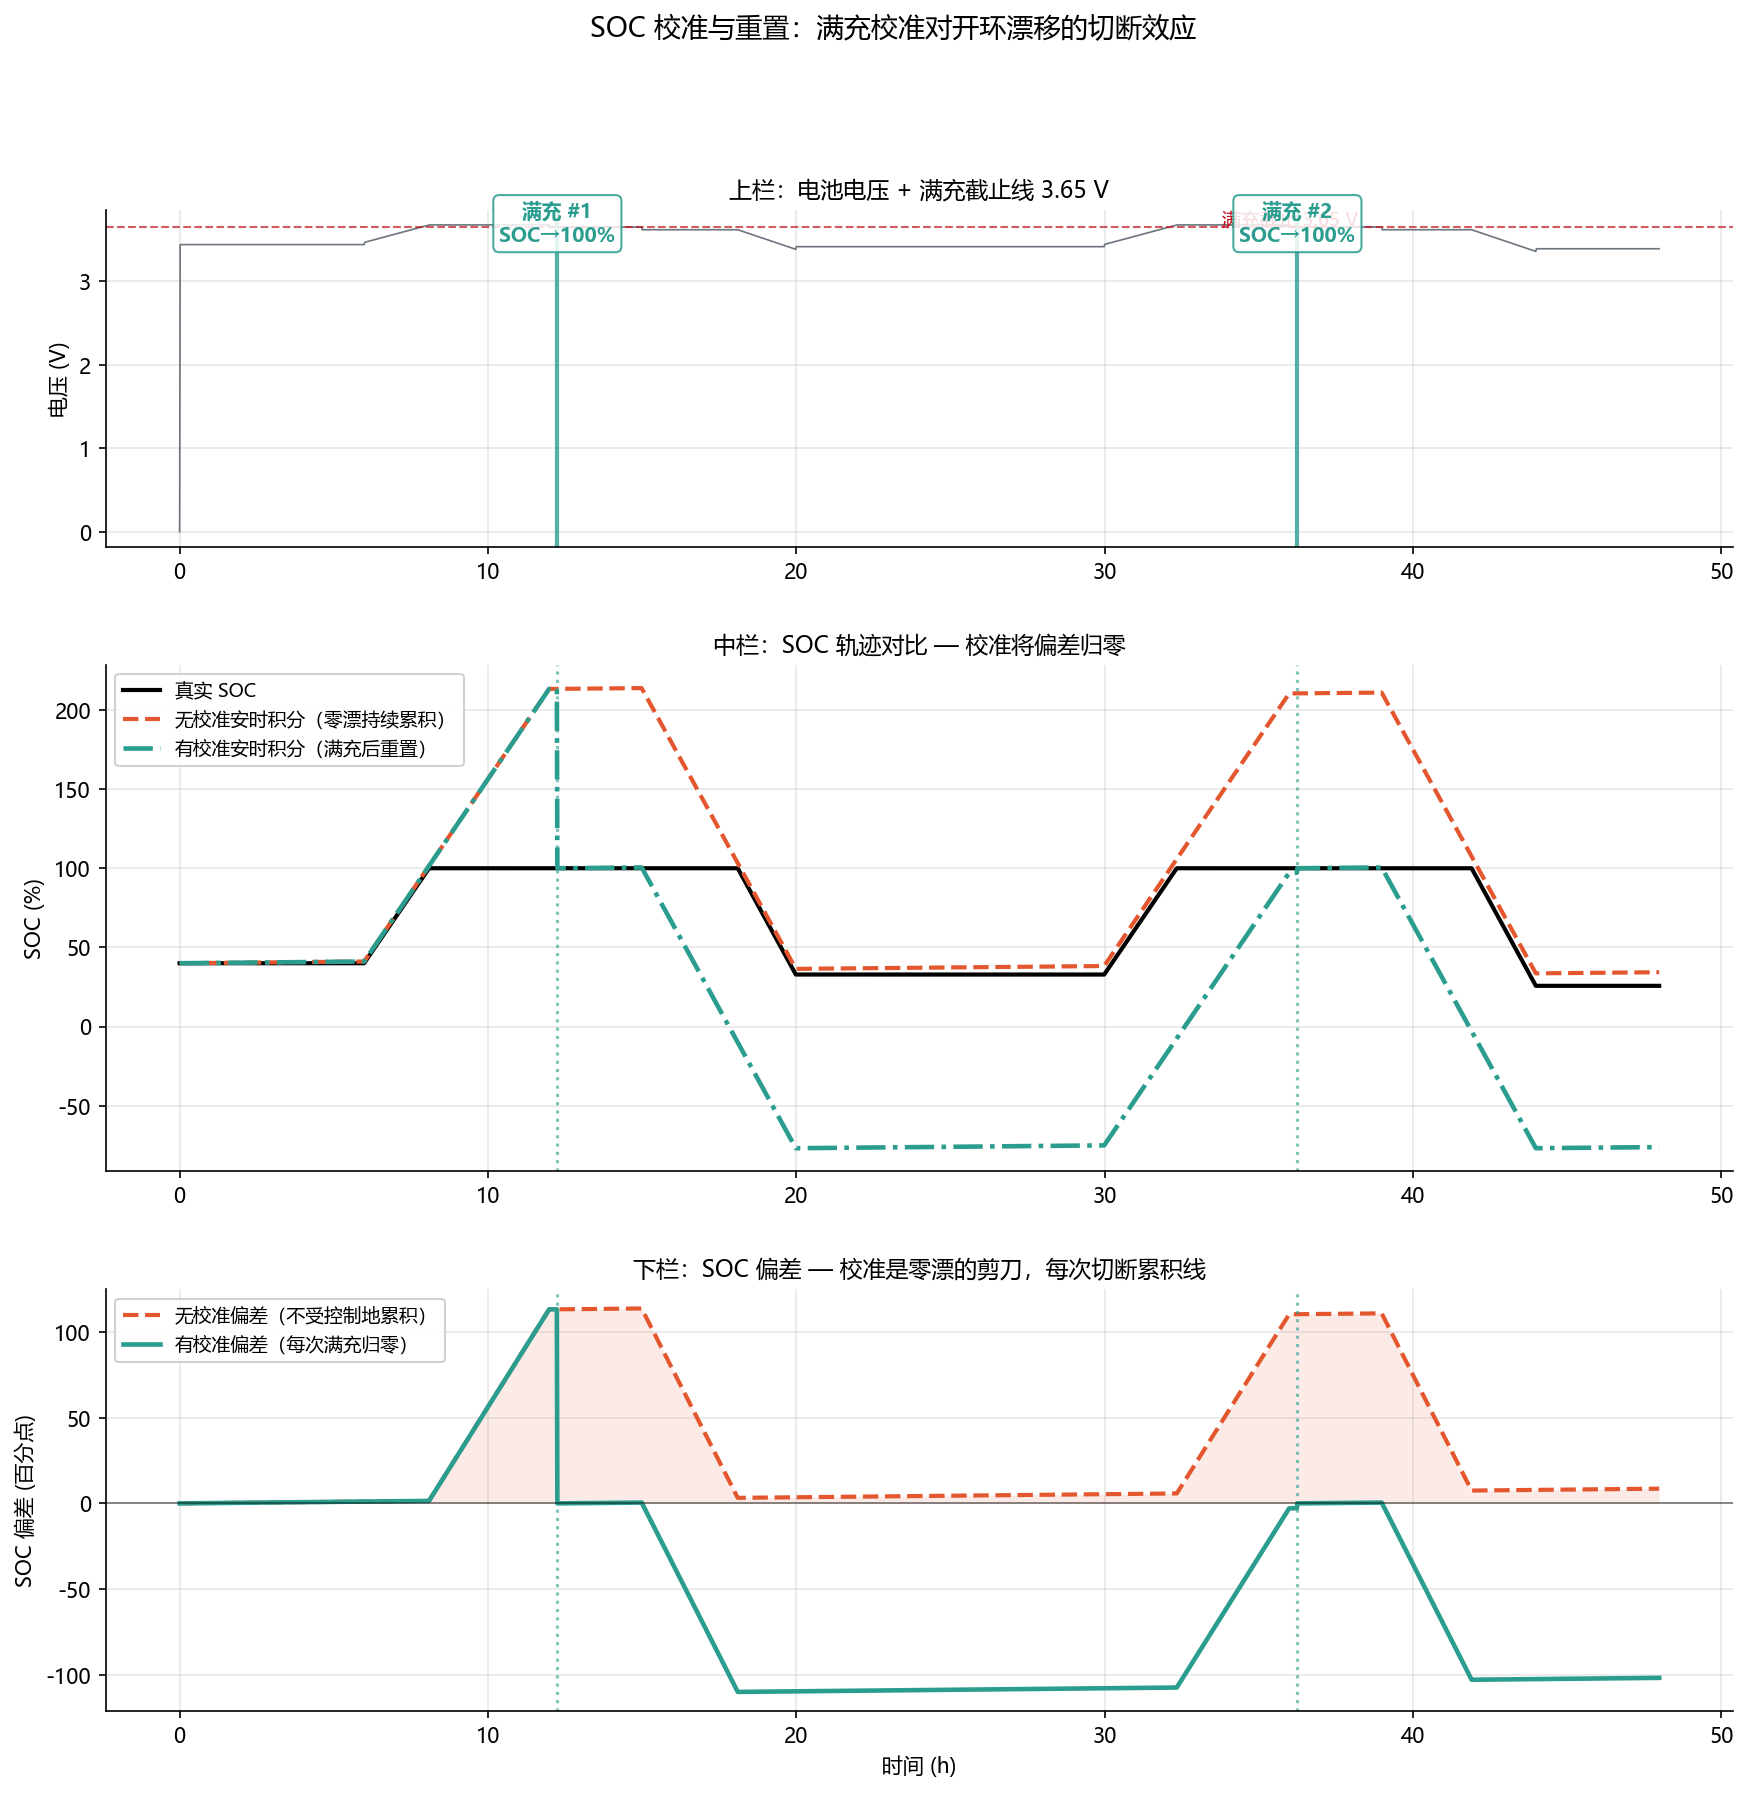
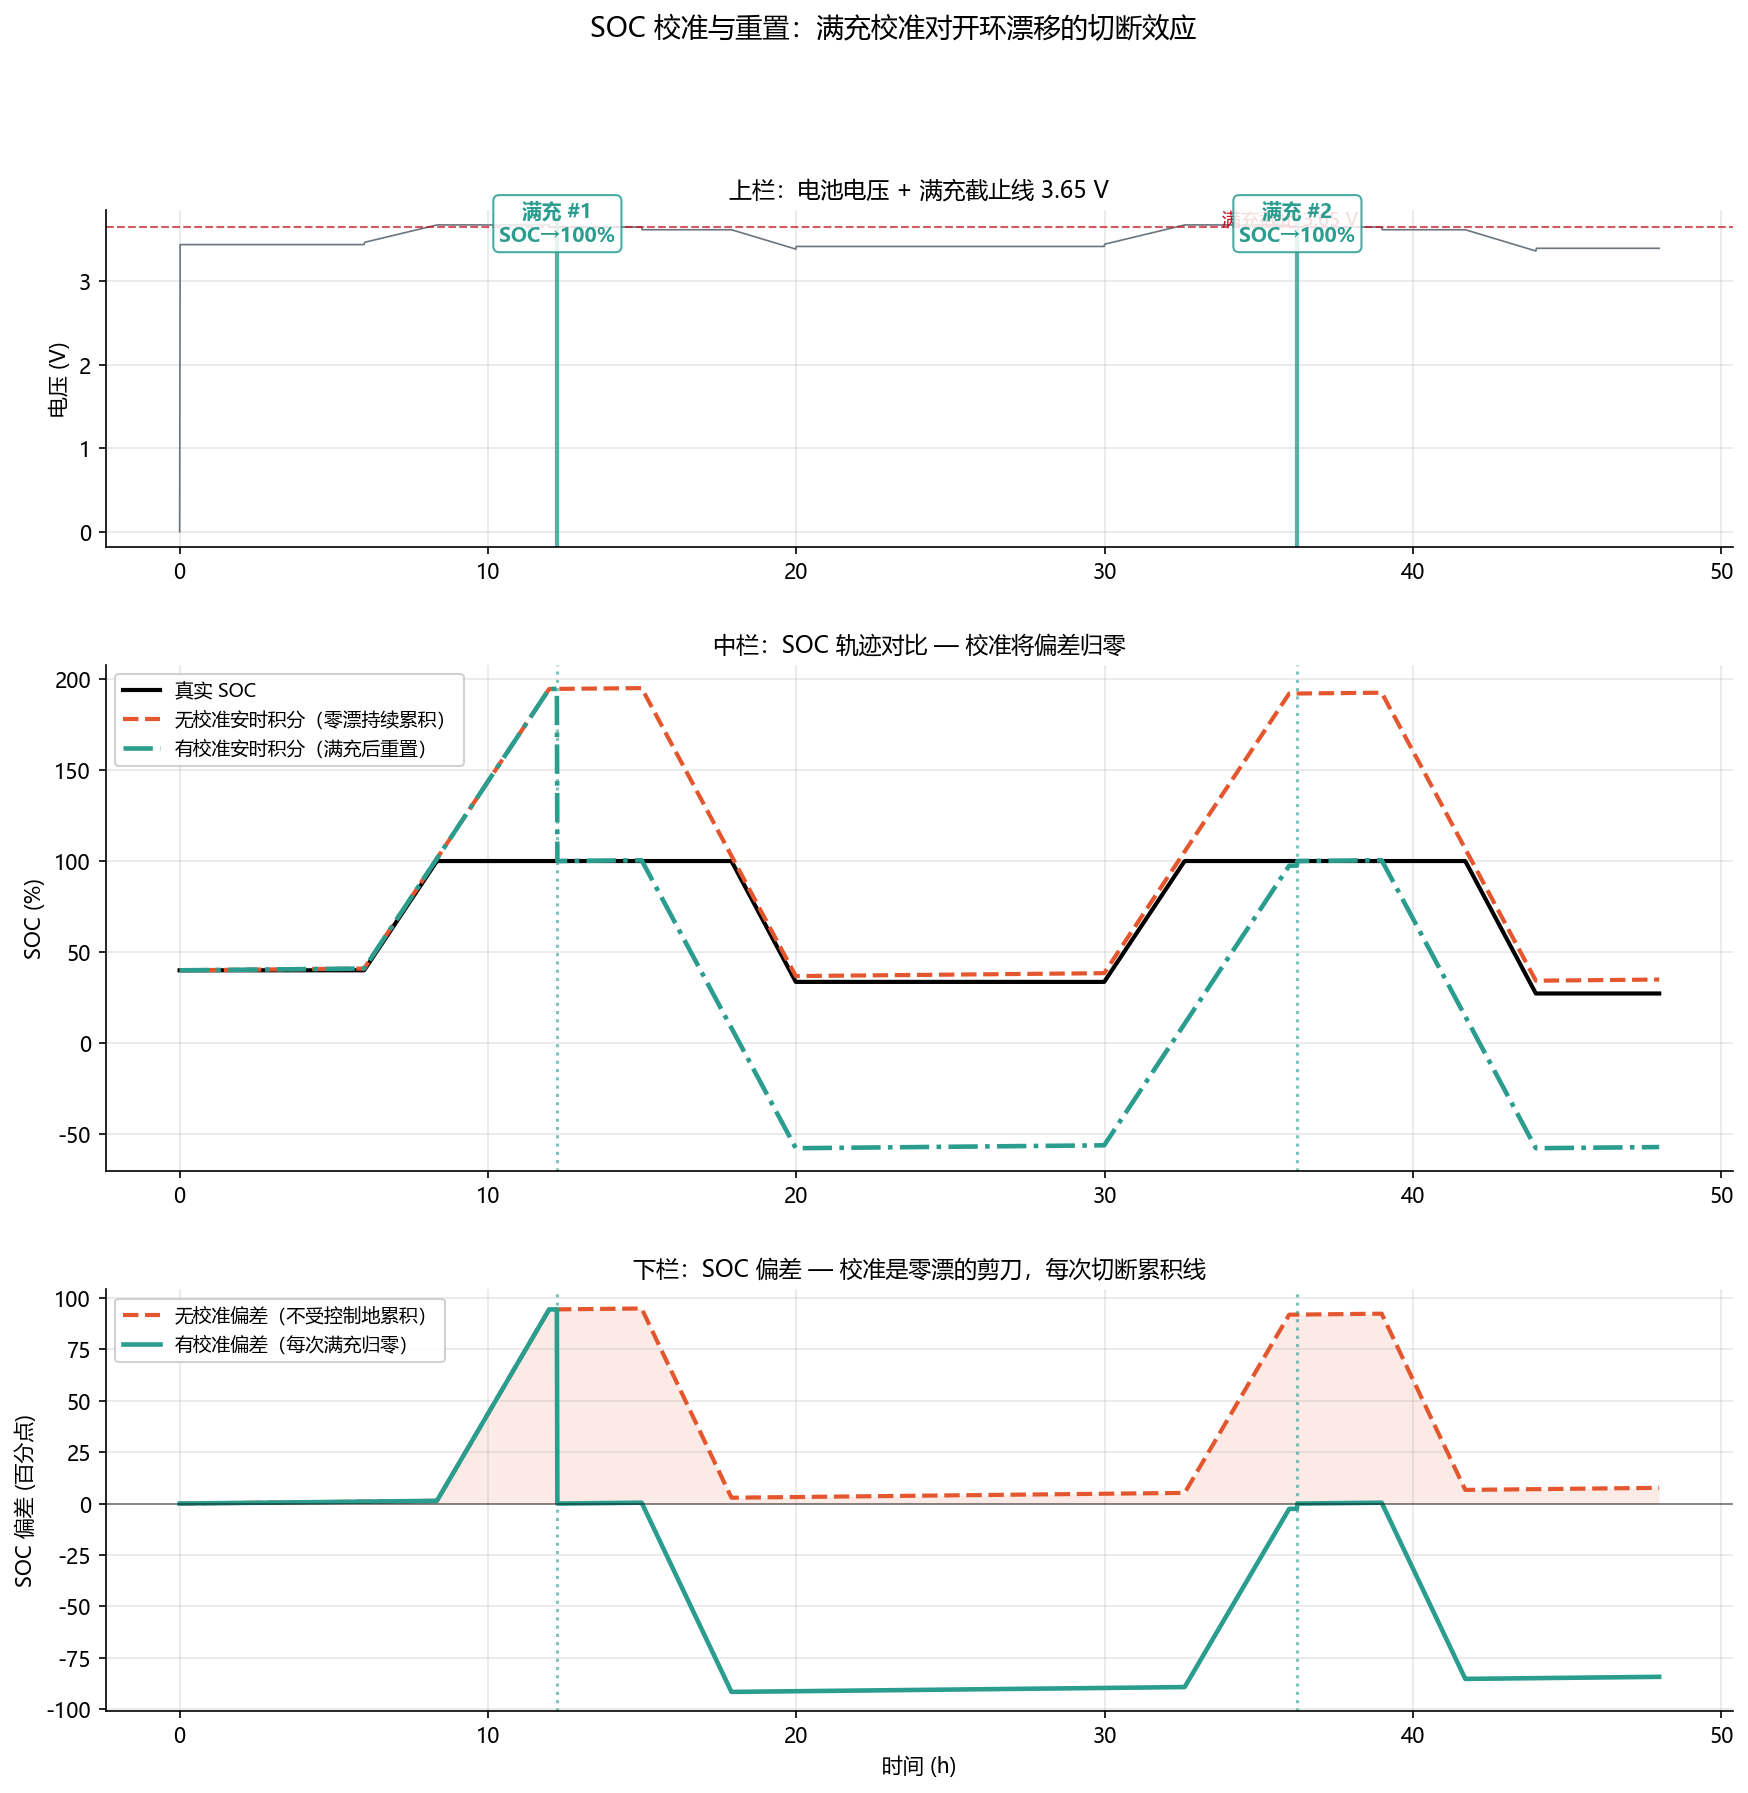
fix: 全文硬伤修复 — 容量统一314Ah、跨章引用修正、EKF舍入对齐、图文同步重生成

diff --git a/public/collections/bess-soc-advanced-plus/figures/scripts/fig_ocv_calibration.py b/public/collections/bess-soc-advanced-plus/figures/scripts/fig_ocv_calibration.py
@@ -18,8 +18,8 @@ def main():
                  fontsize=13, y=0.98)
 
     steps = 21
-    charge_current = 14.0
-    discharge_current = -14.0
+    charge_current = 15.7
+    discharge_current = -15.7
     rest_dur = 2 * 3600
     step_dur = 720
     period = step_dur + rest_dur
@@ -72,7 +72,7 @@ def main():
     ax1.axhline(y=0, color=C_GRID, lw=0.5)
     ax1.set_ylabel("电流 (A)", color=C_CHG)
     ax1.tick_params(axis="y", labelcolor=C_CHG)
-    ax1.set_title("上栏：电流激励（C/20 ≈ 14 A 分段充放 + 每步静置 2 h）", fontsize=11)
+    ax1.set_title("上栏：电流激励（C/20 ≈ 15.7 A 分段充放 + 每步静置 2 h）", fontsize=11)
 
     mid_h = steps * period / 3600
     ax1.annotate("充电阶段", xy=(mid_h * 0.35, 17), fontsize=10, color=C_CHG, fontweight="bold")

diff --git a/public/collections/bess-soc-advanced-plus/figures/scripts/fig_soc_calibration.py b/public/collections/bess-soc-advanced-plus/figures/scripts/fig_soc_calibration.py
@@ -30,7 +30,7 @@ def main():
     soc_ah_uncorrected = np.zeros(n)
     soc_ah_calibrated = np.zeros(n)
 
-    q_nom = 280.0
+    q_nom = 314.0
     b_i = 0.5
     soc = 40.0
     soc_unc = 40.0

diff --git a/public/collections/bess-soc-advanced-plus/06_OCV-SOC曲线构建.md b/public/collections/bess-soc-advanced-plus/06_OCV-SOC曲线构建.md
@@ -22,7 +22,7 @@
 ### 测试步骤
 
 1. 从满放（2.5 V 截止）开始
-2. 以 C/20 电流充电，每步充入 1% SOC（约 2.8 Ah）
+2. 以 C/20 电流充电，每步充入 1% SOC（约 3.14 Ah）
 3. 每个充入步后静置 2 小时，记录静置终点电压 = 充电方向 OCV
 4. 重复直到满充（3.65 V）
 5. 从满充开始，以 C/20 放电，同样每步 1% SOC 间隔，静置后记录放电方向 OCV
@@ -40,26 +40,26 @@ V(t) = OCV + I·R0·exp(−t/τ)
 
 ### 6.3.1 手算示例：一步标定
 
-以 50% SOC 附近的一步为例，R0=0.32 mΩ，τ=20 s，充电电流 14 A：
+以 50% SOC 附近的一步为例，R0=0.32 mΩ，τ=20 s，充电电流 15.7 A（C/20 对应 314 Ah）：
 
-- 刚停止充电：V(0) = 3.3000 + 0.014×0.00032 = 3.3000 + 0.00000448 ≈ 3.3000 V（欧姆压降极小）
-- 静置 20 s（1τ）：偏移 = 0.00448×0.368 = 0.00165 V → V=3.3017 V
-- 静置 100 s（5τ）：偏移 = 0.00448×0.0067 = 0.00003 V → V ≈ 3.3000 V
+- 刚停止充电：V(0) = 3.3000 + 0.0157×0.00032 = 3.3000 + 0.00000502 ≈ 3.3000 V（欧姆压降极小）
+- 静置 20 s（1τ）：偏移 = 0.00502×0.368 = 0.00185 V → V=3.3019 V
+- 静置 100 s（5τ）：偏移 = 0.00502×0.0067 = 0.000034 V → V ≈ 3.3000 V
 
-C/20 电流下的欧姆压降只有 4.5 μV，极化效应也仅 1.6 mV。这就是为什么标定用小电流——它让极化分量足够小，静置时间不需要太长就能逼近真实 OCV。
+C/20 电流下的欧姆压降只有 5.0 μV，极化效应也仅 1.8 mV。这就是为什么标定用小电流——它让极化分量足够小，静置时间不需要太长就能逼近真实 OCV。
 
 ### 6.3.2 标定数据表格
 
 | 步骤 | SOC | 充入方向 | I (A) | 静置结束电压 (V) | 充/放均值 OCV (V) |
 |:---:|:---:|:---:|:---:|:---:|:---:|
 | 1 | 0.00 | 放电起点 | — | 2.500 | 2.500 |
-| 2 | 0.05 | 充电后 | 14 | 3.185 | 3.183 |
-| 3 | 0.10 | 充电后 | 14 | 3.220 | 3.218 |
+| 2 | 0.05 | 充电后 | 15.7 | 3.185 | 3.183 |
+| 3 | 0.10 | 充电后 | 15.7 | 3.220 | 3.218 |
 | ... | ... | ... | ... | ... | ... |
-| 50 | 0.50 | 充电后 | 14 | 3.300 | 3.300 |
+| 50 | 0.50 | 充电后 | 15.7 | 3.300 | 3.300 |
 | ... | ... | ... | ... | ... | ... |
-| 98 | 0.98 | 充电后 | 14 | 3.410 | 3.408 |
-| 99 | 0.99 | 充电后 | 14 | 3.500 | 3.498 |
+| 98 | 0.98 | 充电后 | 15.7 | 3.410 | 3.408 |
+| 99 | 0.99 | 充电后 | 15.7 | 3.500 | 3.498 |
 | 100 | 1.00 | 充电后 | — | 3.650 | 3.650 |
 
 ## 6.4 充放平均消除滞回
@@ -143,7 +143,7 @@ def check_ocv_quality(ocv: np.ndarray, soc_grid: np.ndarray) -> dict:
 ![GITT 标定测试示例：上栏为 C/20 分段充放电流激励，中栏为端电压响应及静置衰减曲线，下栏为充放方向 OCV 均值构建的最终 OCV-SOC 曲线。](img/ocv_calibration.png)
 
 上图展示了完整的标定过程：
-- **上栏**：分段电流激励——每步 14 A 充入 1% SOC 后静置 2 h
+- **上栏**：分段电流激励——每步 15.7 A 充入 1% SOC 后静置 2 h
 - **中栏**：端电压随时间变化——每一步的指数衰减清晰可见，静置终点即为该点的 OCV 点
 - **下栏**：提取的充电 OCV（蓝点）和放电 OCV（橙点），以及取平均后的最终 OCV-SOC 曲线（黑线）
 

diff --git a/public/collections/bess-soc-advanced-plus/17_扩展卡尔曼滤波.md b/public/collections/bess-soc-advanced-plus/17_扩展卡尔曼滤波.md
@@ -66,10 +66,10 @@ SOC[k+1] = 0.536 − 50×1/(3600×314) = 0.53596
 
 | 步 k | SOC⁻ | P⁻ | V_meas | V_hat | e (mV) | S (mV²) | K (SOC/V) | SOC⁺ | P⁺ |
 |:---:|------:|-----:|--------|-------|-------:|--------:|----------:|------:|------:|
-| 0 | 0.7000 | 1.0×10⁻² | 3.284 | 3.309 | −25 | 0.229 | 6.55 | 0.5362 | 1.7×10⁻⁴ |
-| 1 | 0.5362 | 1.7×10⁻⁴ | 3.268 | 3.264 | +4 | 0.008 | 3.31 | 0.5495 | 0.9×10⁻⁴ |
+| 0 | 0.7000 | 1.0×10⁻² | 3.284 | 3.309 | −25 | 0.229 | 6.55 | 0.5362 | 1.75×10⁻⁴ |
+| 1 | 0.5362 | 1.75×10⁻⁴ | 3.268 | 3.264 | +4 | 0.008 | 3.31 | 0.5495 | 0.9×10⁻⁴ |
 
-> **解读**：k=0 的 −25 mV 大残差触发 K·H₀≈0.98 的大幅修正，P 从 1.0e-2 骤降至 1.7e-4；k=1 的 +4 mV 小残差仅做小幅回调，P 继续减半。两拍之后，滤波器对自身估计已高度信任，后续修正趋近于零。这就是 EKF "一次大纠偏 + 快速收敛" 的典型节奏。
+> **解读**：k=0 的 −25 mV 大残差触发 K·H₀≈0.98 的大幅修正，P 从 1.0e-2 骤降至 1.75e-4；k=1 的 +4 mV 小残差仅做小幅回调，P 继续减半。两拍之后，滤波器对自身估计已高度信任，后续修正趋近于零。这就是 EKF "一次大纠偏 + 快速收敛" 的典型节奏。
 
 ## 17.6 核心实现
 

diff --git a/public/collections/bess-soc-advanced-plus/16_SOC校准与重置.md b/public/collections/bess-soc-advanced-plus/16_SOC校准与重置.md
@@ -155,7 +155,7 @@ def apply_calibration(
 
 ## 16.10 自测
 
-1. 连续 36 小时未校准，零漂累积到多少个百分点？（b_I=+0.5 A, Q_nom=280 Ah, η_c=0.998）
+1. 连续 36 小时未校准，零漂累积到多少个百分点？（b_I=+0.5 A, Q_nom=314 Ah, η_c=0.998）
 2. 满充检测仅靠"V ≥ 3.65 V"单一条件有什么风险？举一个假满充的例子。
 3. 校准质量 Q_calib=0.7 的情况下，P0 应该重置为多少？（参考代码逻辑）
 4. 一个调频电站连续 5 天没有满充，SOC 偏差已约 8%，第 6 天发生满充——满充后偏差归零，对第 6 天晚峰能力申报的影响是什么？

diff --git a/public/collections/bess-soc-advanced-plus/02_SOC_SOE_SOH_SOP状态体系.md b/public/collections/bess-soc-advanced-plus/02_SOC_SOE_SOH_SOP状态体系.md
@@ -51,7 +51,7 @@ SOH 是整个链条的起点参数。容量从 100% 降到 92%，每一步的数
 
 ## 2.5 状态换算公式
 
-四类状态不是并列名词，而是一条递推链，通用形式如下（详细推导见第 16–17 章）：
+四类状态不是并列名词，而是一条递推链，通用形式如下（详细推导见第 18–21 章）：
 
 ```text
 E_eff = C_rated × SOH_capacity
